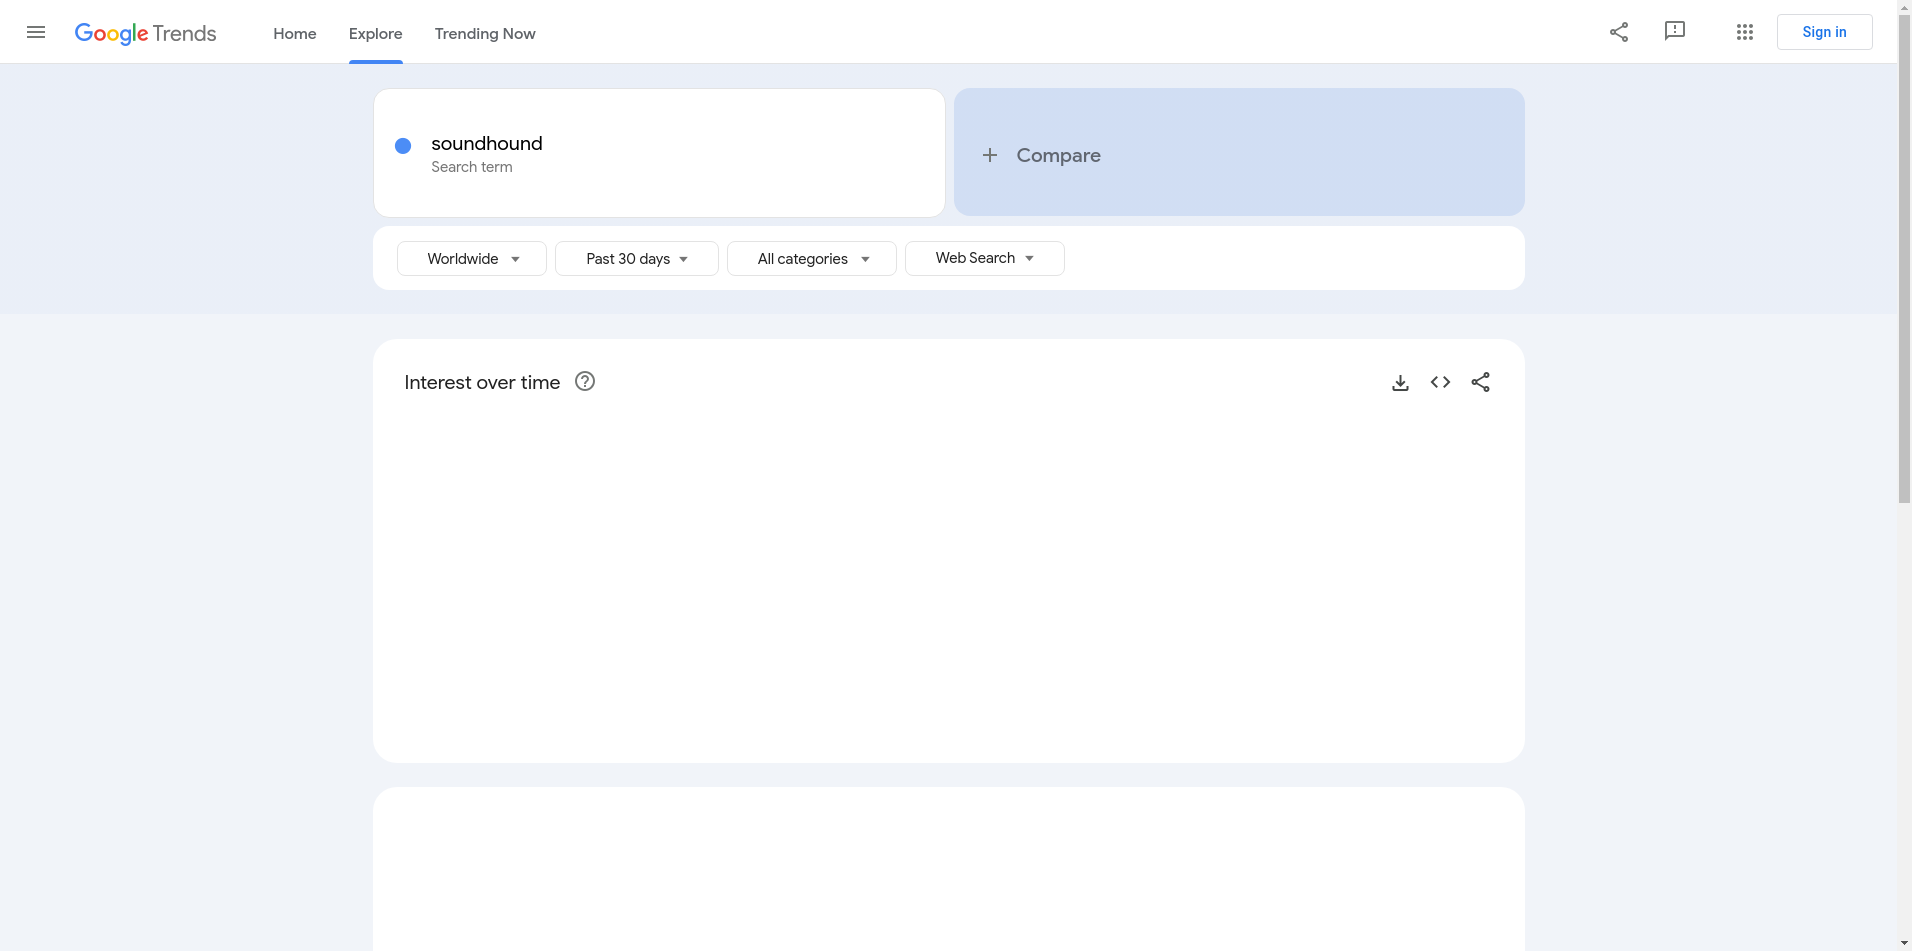
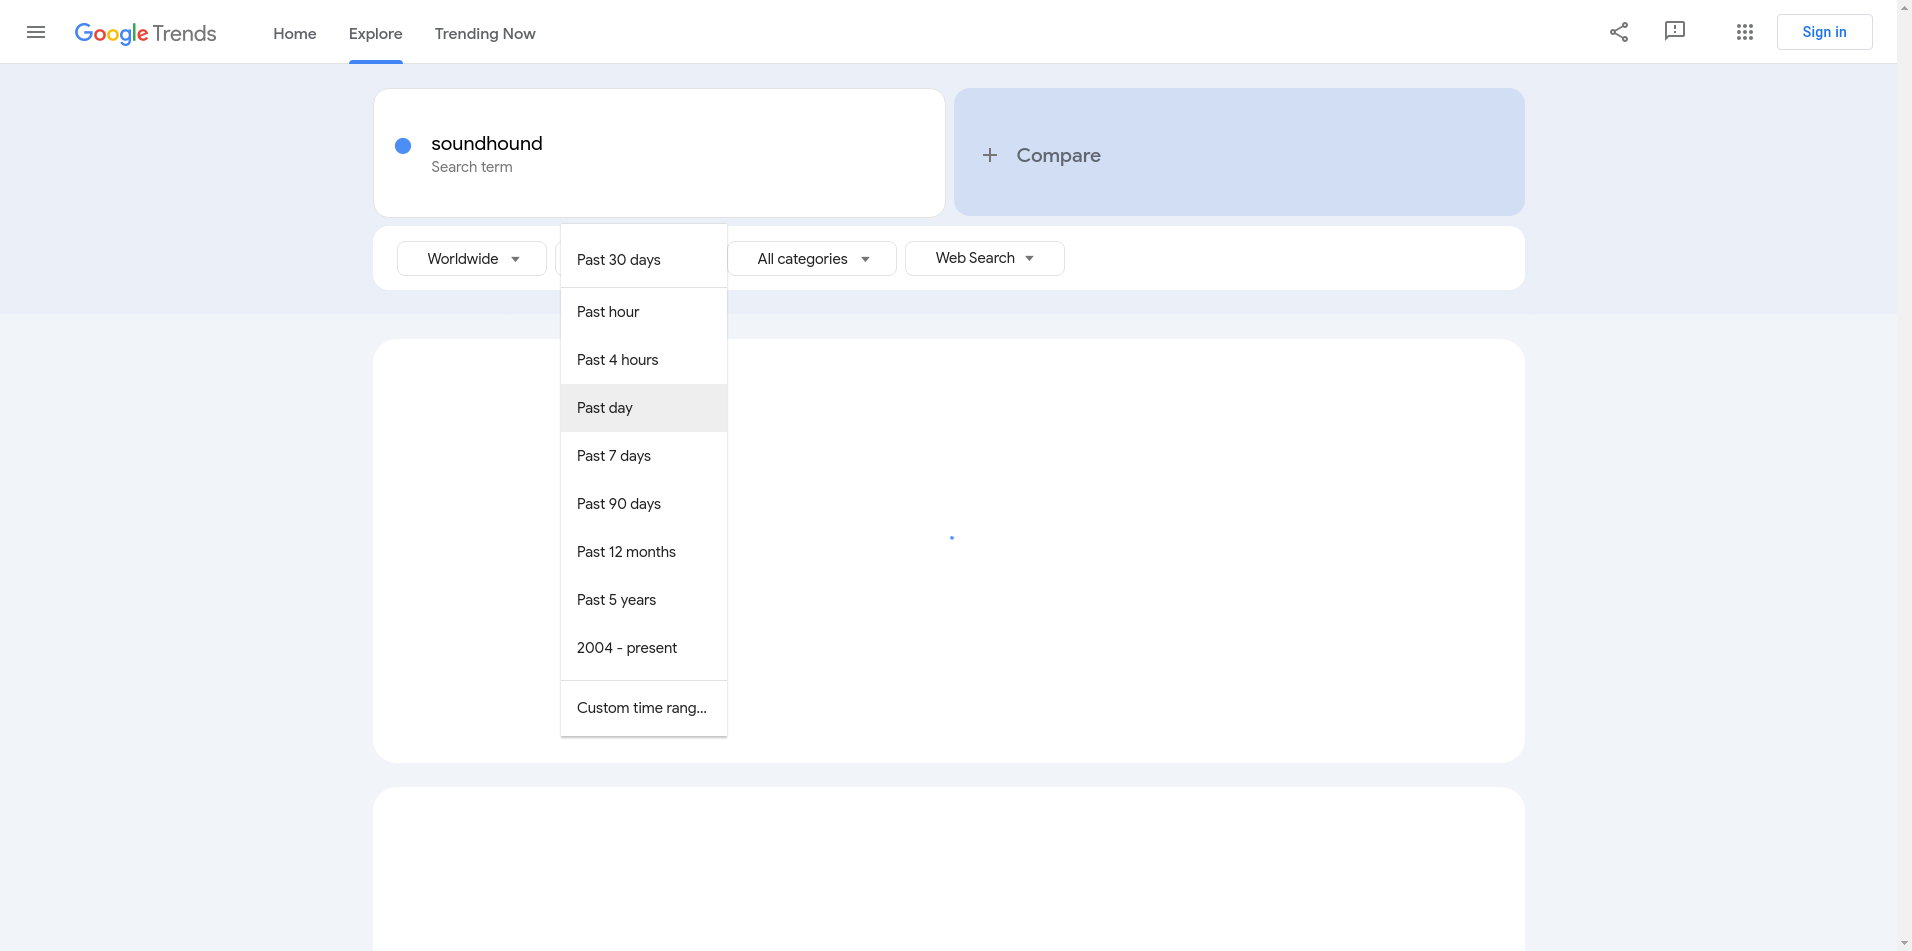
trying to for loop over

diff --git a/app/scrapers/google_trends_scraper.py b/app/scrapers/google_trends_scraper.py
@@ -9,9 +9,11 @@ import time
 
 class GoogleTrendsScraper(BaseScraper):
     def scrape(self, search_term):
+        print("Entered func")
         try:
             # Navigate to Google Trends
             self.driver.get("https://trends.google.com/trends/")
+            print("Url retrieved")
             time.sleep(2)  # Let the page load
             self.driver.save_screenshot('Test01.png')  # Save screenshot for debugging
 
@@ -19,7 +21,7 @@ class GoogleTrendsScraper(BaseScraper):
             search_box = WebDriverWait(self.driver, 10).until(
                 EC.element_to_be_clickable((By.CSS_SELECTOR, "input[jsname='YPqjbf']"))
             )
-
+            print("wait for search box to be interactable")
             # Enter the search term and initiate the search
             time.sleep(1)  # Just to be safe
             search_box.click()  # Click the search box before typing
@@ -33,6 +35,7 @@ class GoogleTrendsScraper(BaseScraper):
             WebDriverWait(self.driver, 10).until(
                 EC.element_to_be_clickable((By.CSS_SELECTOR, ".cookieBarConsentButton"))
             )
+            print("Cookie accepted")
             cookie_consent_button = self.driver.find_element(By.CSS_SELECTOR, ".cookieBarConsentButton")
             cookie_consent_button.click()
          
@@ -40,11 +43,12 @@ class GoogleTrendsScraper(BaseScraper):
             dropdown = WebDriverWait(self.driver, 10).until(
                 EC.element_to_be_clickable((By.CSS_SELECTOR, ".hierarchy-select"))
             )
+            print("Wait for dropdown")
             dropdown.click()
             time.sleep(1)
             self.driver.save_screenshot('Test04.png')  # Save screenshot for debugging
 
-           
+            print("wait for options in dropdown")
             # Depending on the structure after clicking the dropdown, this selector might need to be adjusted.
             worldwide_option = WebDriverWait(self.driver, 10).until(
                 EC.element_to_be_clickable((By.XPATH, "//span[normalize-space()='Worldwide']"))
@@ -58,6 +62,7 @@ class GoogleTrendsScraper(BaseScraper):
             time_frame_dropdown = WebDriverWait(self.driver, 10).until(
                 EC.element_to_be_clickable((By.CSS_SELECTOR, "md-select[aria-label^='Select time period']"))
             )
+            print("wait for time frame dropdown")
             if time_frame_dropdown:
                 time_frame_dropdown.click()
                 self.driver.save_screenshot('Test06.png')
@@ -67,6 +72,7 @@ class GoogleTrendsScraper(BaseScraper):
             past_30_days_option = WebDriverWait(self.driver, 10).until(
                 EC.element_to_be_clickable((By.XPATH, "//md-option/div[normalize-space()='Past 30 days']"))
             )
+            print("wait for options in time frame dropdown")
             self.driver.execute_script("arguments[0].click();", past_30_days_option)
             time.sleep(1)
             self.driver.save_screenshot('Test07.png')
@@ -75,6 +81,7 @@ class GoogleTrendsScraper(BaseScraper):
             WebDriverWait(self.driver, 10).until(
                 EC.presence_of_element_located((By.CSS_SELECTOR, "div[aria-label='A tabular representation of the data in the chart.']"))
             )
+            print("wait for tabular data to appear")
             time.sleep(3)  # Additional delay to ensure the data table is loaded
 
             self.driver.save_screenshot('Test08.png')  # Save screenshot for debugging
@@ -84,6 +91,7 @@ class GoogleTrendsScraper(BaseScraper):
             WebDriverWait(self.driver, 10).until(
                 EC.presence_of_element_located((By.CSS_SELECTOR, "div[aria-label='A tabular representation of the data in the chart.']"))
             )
+            print("Page refreshed and data loaded")
             time.sleep(3)  # Additional delay to ensure the data table is loaded
             self.driver.save_screenshot('Test09.png')  # Save screenshot for debugging
             # Refresh the page and wait for the data to load
@@ -113,9 +121,7 @@ class GoogleTrendsScraper(BaseScraper):
             print(f"An error occurred: {e}")
             return {"error": str(e)}
 
-        finally:
-            self.close()
-
+        
 
 
 

diff --git a/main.py b/main.py
@@ -1,3 +1,4 @@
+from typing import List
 from fastapi import FastAPI, HTTPException, Query
 
 from app.scrapers.google_trends_scraper import GoogleTrendsScraper
@@ -5,11 +6,16 @@ app = FastAPI()
 
 
 @app.get("/scrape")
-def run_scraper(search_term: str = Query(...)):
+def run_scraper(search_terms: List[str] = Query(...)):
     scraper = GoogleTrendsScraper()
+    results = []
     try:
-        results = scraper.scrape(search_term)
-        return results
+        for term in search_terms:
+            print(term)
+            res = scraper.scrape(term)
+            results.append(res)
     except Exception as e:
         scraper.close()
         raise HTTPException(status_code=500, detail=str(e))
+    scraper.close()
+    return results
